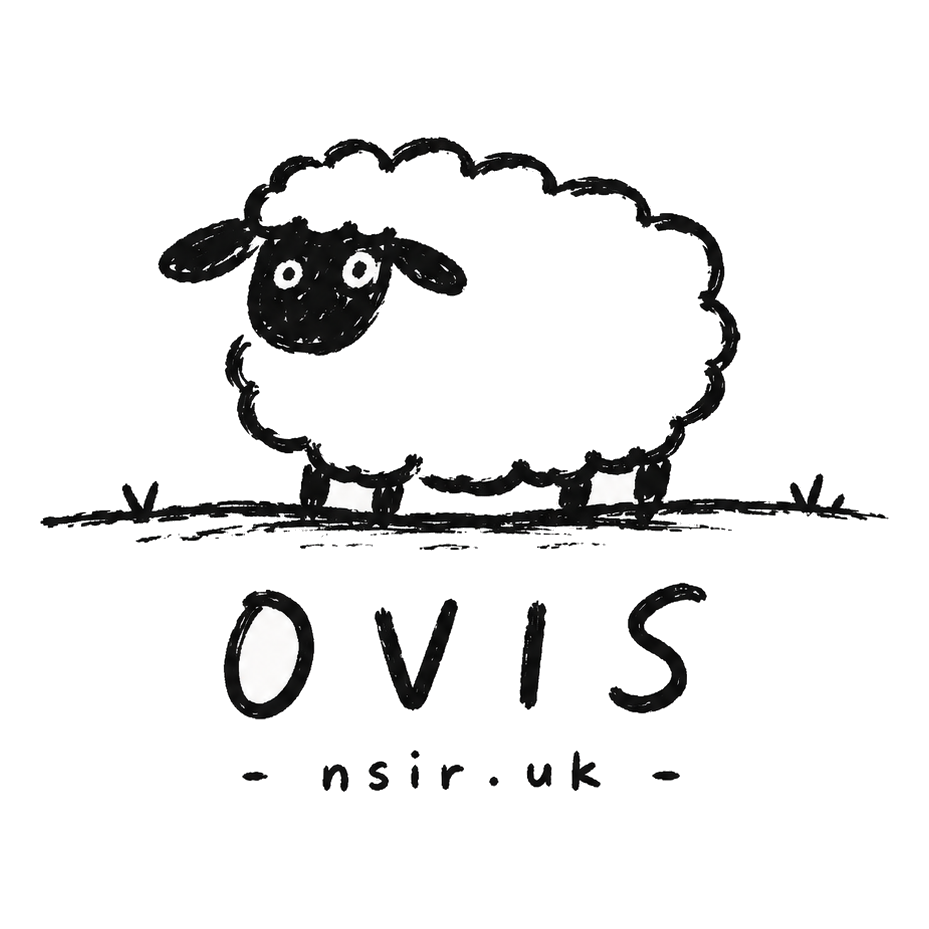
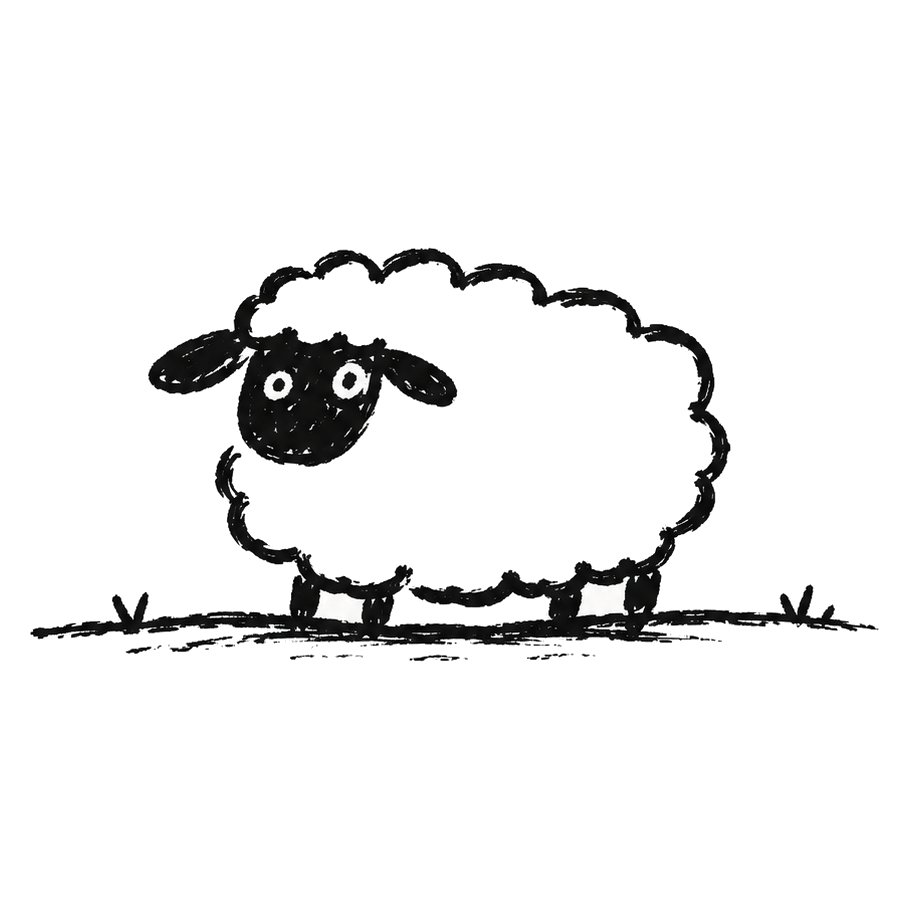
視覺(過場動畫): 裁除小羊圖示下方的英文字樣，僅保留純粹高清小羊在進度條上漫步

diff --git a/src/components/PageLoader.svelte b/src/components/PageLoader.svelte
@@ -104,16 +104,16 @@
     }
   }
 
-  /* 🐑 小羊行走軌道 */
+  /* 🐑 純小羊行走軌道 (無下方文字) */
   .sheep-track {
     position: relative;
     width: 100%;
-    height: 60px;
+    height: 44px;
   }
 
   .sheep-walker {
     position: absolute;
-    top: 0;
+    bottom: 4px;
     transform: translateX(-50%);
     display: flex;
     align-items: center;
@@ -122,12 +122,12 @@
     will-change: left;
   }
 
-  /* 靜止行走的小羊 (無上下浮動，純高清平移) */
+  /* 靜止行走的高清純小羊 (無英文字、無上下浮動，純平移) */
   .loader-sheep {
-    width: 58px;
-    height: 58px;
+    width: 64px;
+    height: 38px;
     object-fit: contain;
-    filter: drop-shadow(0 4px 8px rgba(28, 28, 28, 0.12));
+    filter: drop-shadow(0 3px 6px rgba(28, 28, 28, 0.1));
     display: block;
   }
 
